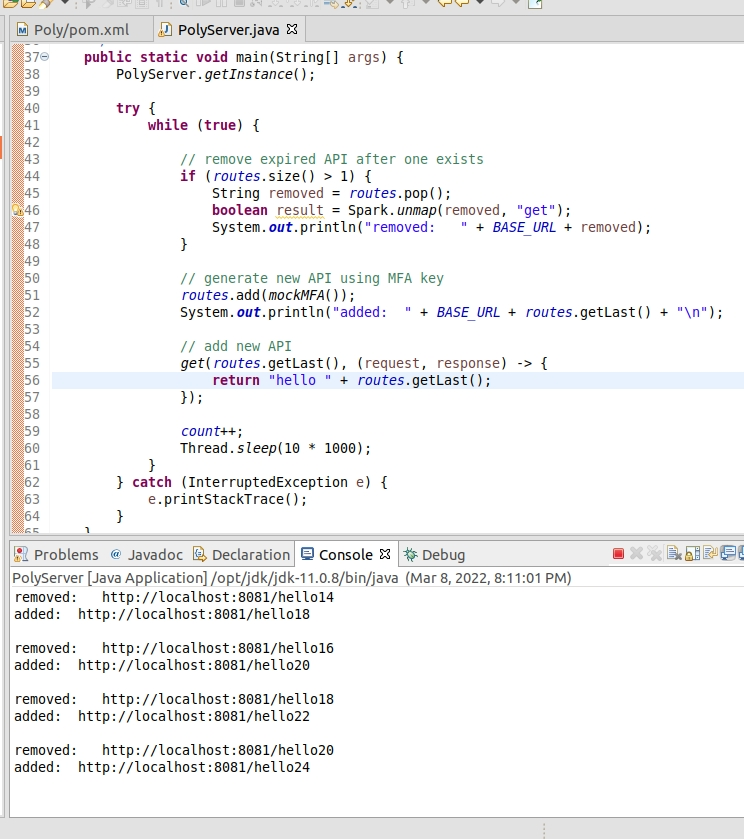
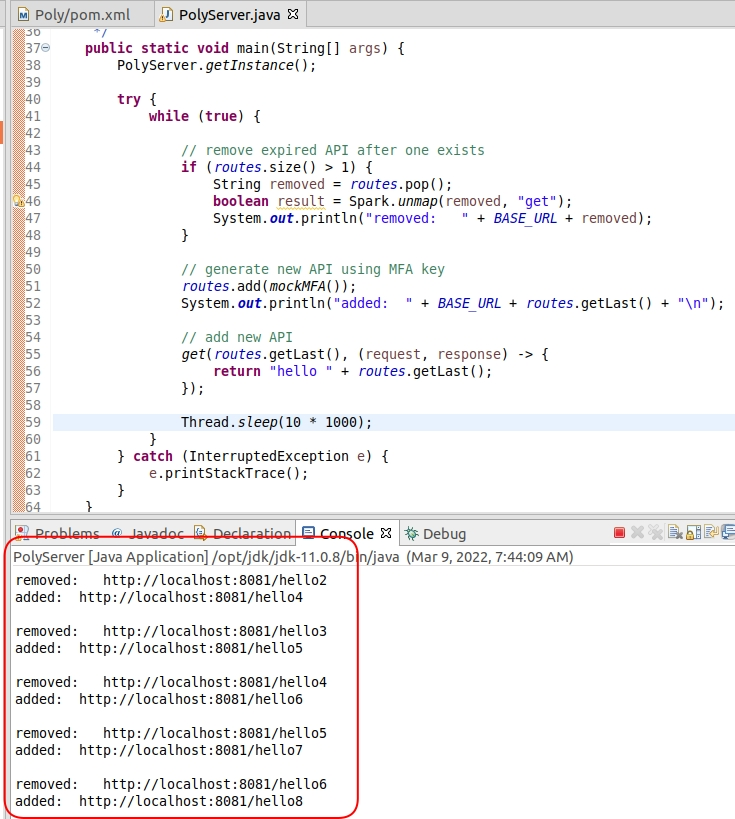
save

Changed region(s): [[0.0, 0.0, 1.0, 1.0], [0.5687, 0.3663, 0.9878, 0.3968]]

diff --git a/Poly/src/broward/ghost/io/PolyServer.java b/Poly/src/broward/ghost/io/PolyServer.java
@@ -56,7 +56,6 @@ public class PolyServer {
 					return "hello " + routes.getLast();
 				});
 				
-				count++;
 				Thread.sleep(10 * 1000);
 			}
 		} catch (InterruptedException e) {
